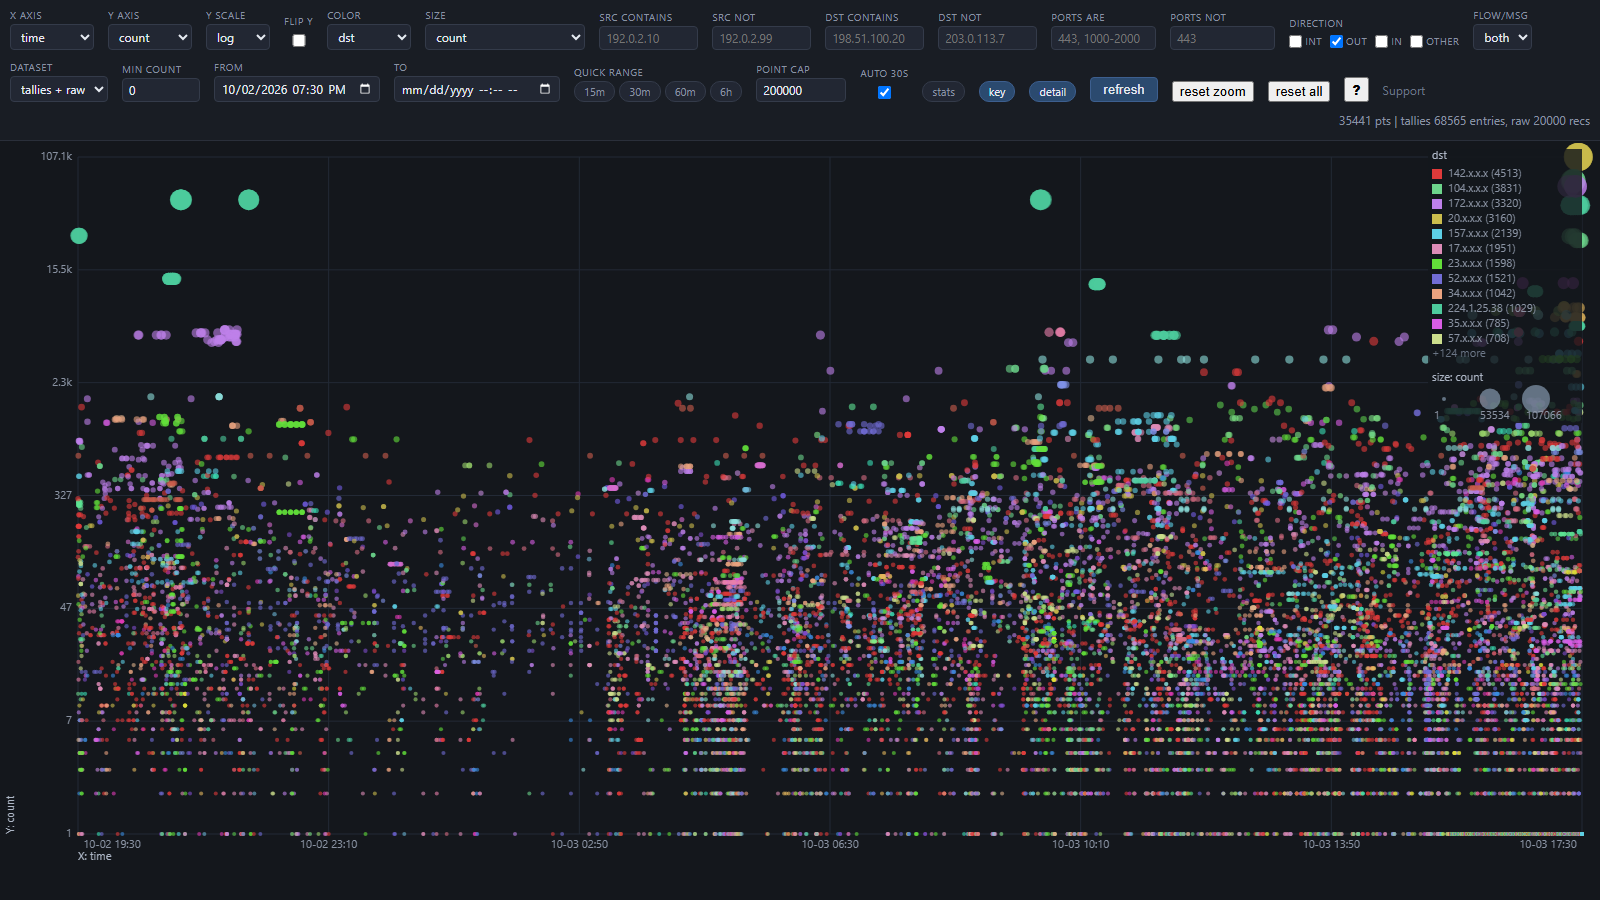
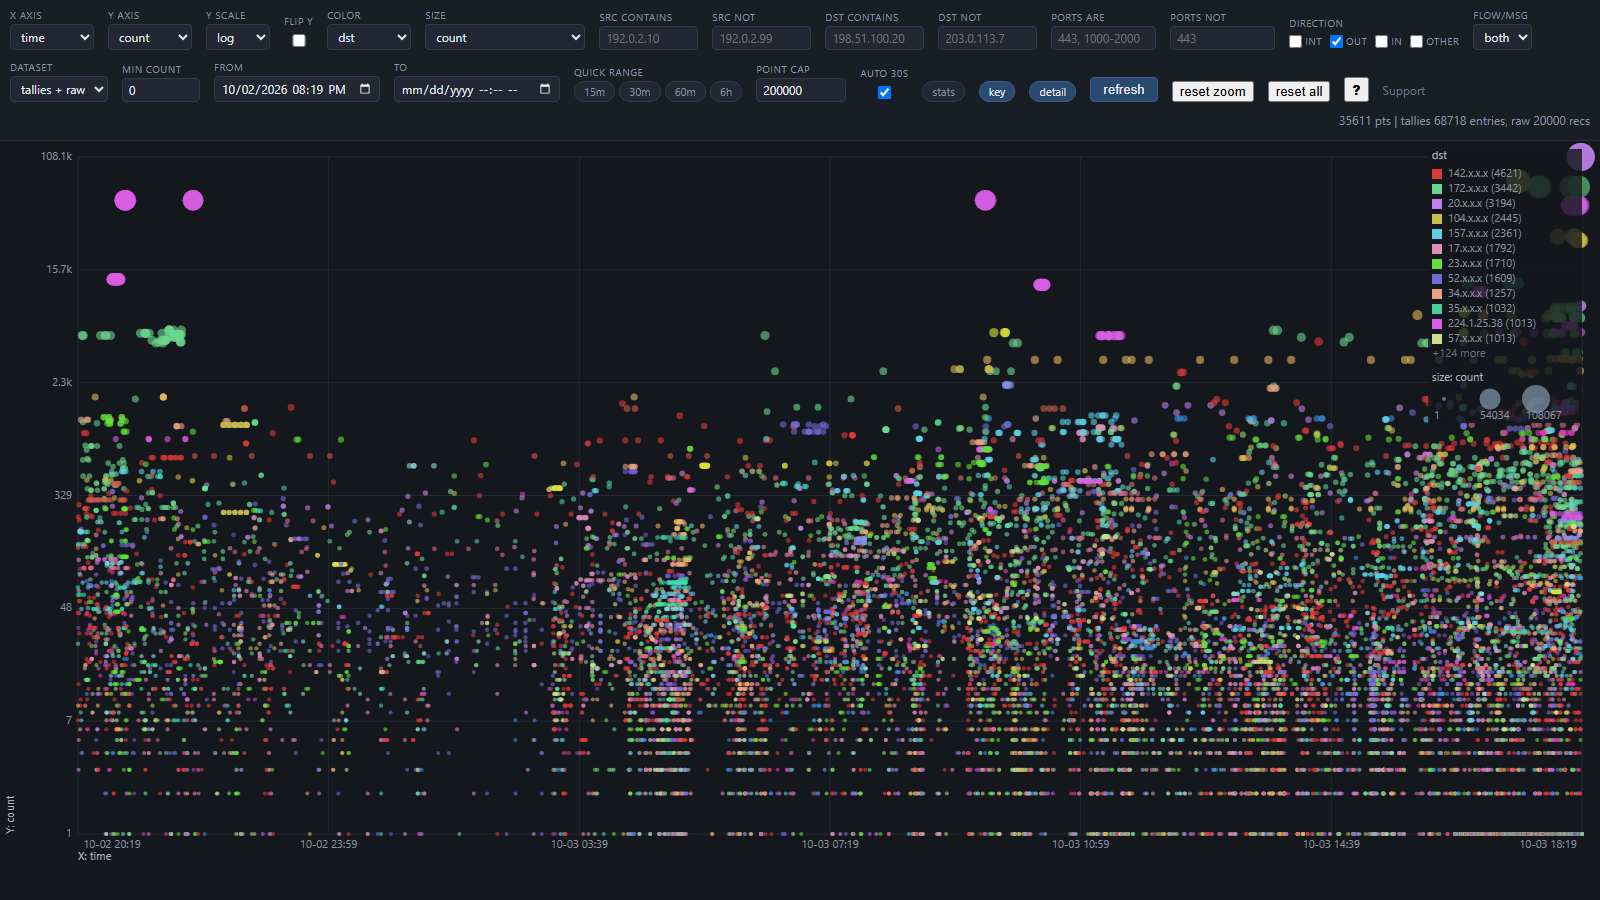
Fix spotlight screenshot (was missing from make_screens shots list); all 5 screenshots regenerated with first-octet-only external IP redaction; msg records now plot at bottom edge instead of disappearing on null-Y axes

diff --git a/viz.html b/viz.html
@@ -841,9 +841,18 @@ function draw(){
   for (i = 0; i < points.length; i++){
     var p = points[i];
     var vx = p[Xv], vy = p[Yv];
-    if (vx === null || vx === undefined || vy === null || vy === undefined) continue;
-    var px = sx.pos(vx), py = sy.pos(vy);
-    if (px === null || py === null) continue;
+    if (vx === null || vx === undefined) continue;  // X must have a value to plot
+    var px = sx.pos(vx);
+    if (px === null || isNaN(px)) continue;  // outside zoom domain
+    /* Plot null-Y points at the bottom edge so messages (dpt=null,
+       dst=null etc.) are always visible regardless of axis selection */
+    var py;
+    if (vy === null || vy === undefined){
+      py = y1;
+    } else {
+      py = sy.pos(vy);
+      if (py === null || isNaN(py)) py = y1;
+    }
     /* NaN-safe clip: fails closed on non-finite coordinates */
     if (!(px >= x0 - 4 && px <= x1 + 4 && py >= y0 - 4 && py <= y1 + 4)) continue;
     if (relMode){
